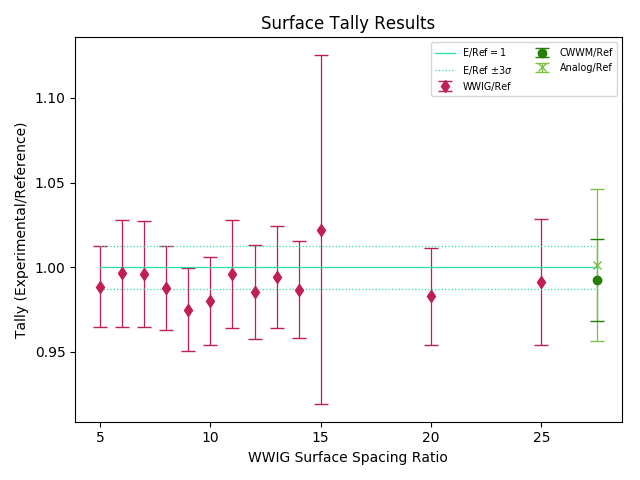
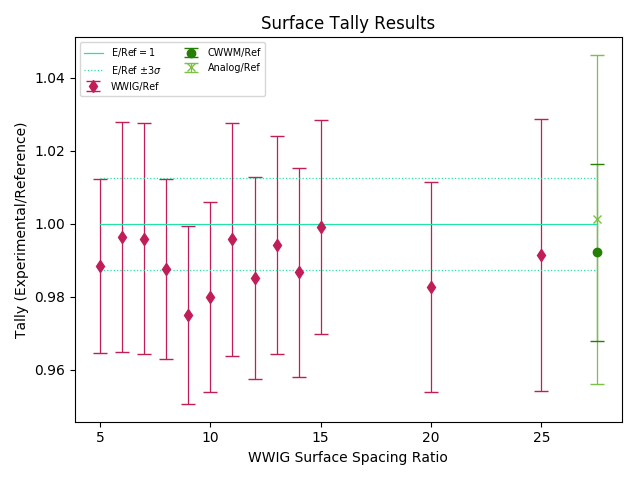
new data with different seed for some outliers

diff --git a/performance-analysis/analysis/collect_mcnp_run_data.py b/performance-analysis/analysis/collect_mcnp_run_data.py
@@ -62,7 +62,6 @@ def collect_info(fdir):
     # files
     ww_path = fdir + '/ww_checks'
     outp_path = fdir + '/outp'
-    meshtal_path = fdir + '/meshtal'
 
     # get info
     if os.path.exists(ww_path):
@@ -93,6 +92,8 @@ def iterate_ratios(fdir):
     """
     all_info = []
     for ratio in os.listdir(fdir):
+        if (ratio[-1] == 'd'):
+            continue
         new_dir = fdir + '/' + ratio
         collected_info = collect_info(new_dir)
 
@@ -125,6 +126,8 @@ def iterate_refine(fdir, refine):
     all_info = []
     for factor in os.listdir(fdir):
         if factor[-3:] == '.sh':
+            continue
+        if (factor[-1] == 'd'):
             continue
         new_dir = fdir + '/' + factor
         collected_info = collect_info(new_dir)
